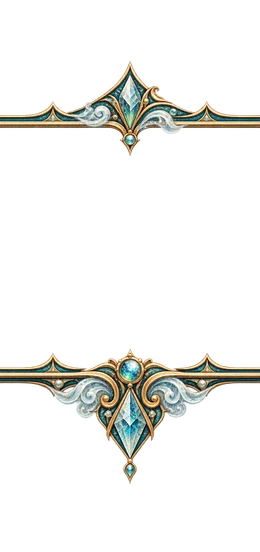
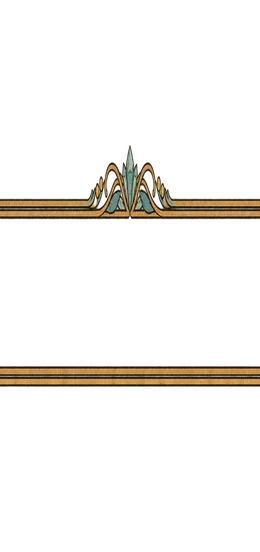
Rework Elemental artwork as Art Nouveau and apply theme palette

Changed region(s): [[0.0, 0.0924, 1.0, 0.4004], [0.0, 0.6159, 1.0, 0.8931]]

diff --git a/game-lines/changeling/styles/sheet-theme.css b/game-lines/changeling/styles/sheet-theme.css
@@ -430,14 +430,209 @@
 
 @media screen {
 
+  /* Paleta da ficha e dos controles que herdam as cores da linha. */
+  body:has([data-changeling-sheet-theme="elemental"]),
+  body:has([data-changeling-sheet-theme="elemental"]) .line-theme-ctl {
+    --primary: #1f5960;
+    --primary-foreground: #f5f1df;
+    --secondary: #dce8e3;
+    --secondary-foreground: #244950;
+    --accent: #cde3dc;
+    --accent-foreground: #244950;
+    --ring: #6caaa4;
+    --line-accent: #31777b;
+    --line-strong: #244950;
+    --line-soft: #edf2e9;
+    --line-border: #a9c6bf;
+    --line-topbar-start: #17383f;
+    --line-topbar-middle: #1e4d55;
+    --line-topbar-end: #1f5960;
+    --line-topbar-muted: #d7e8e0;
+  }
+
+  .app-shell:has([data-changeling-sheet-theme="elemental"]) .ctl-sheet {
+    --ctl-ink: #244950;
+    --ctl-ink-soft: rgb(36 73 80 / 48%);
+    --ctl-rule: rgb(36 73 80 / 34%);
+    --ctl-paper: #f3eddb;
+    --ctl-paper-light: rgb(248 246 231 / 68%);
+    --ctl-ornament-fill: #dfebe2;
+    --sheet-accent: #31777b;
+    --sheet-ink: #244950;
+    border-color: rgb(31 89 96 / 52%);
+    box-shadow: 0 16px 48px rgb(23 56 63 / 16%);
+  }
+
+  .app-shell:has([data-changeling-sheet-theme="elemental"])
+    .ctl-sheet:not(.mobile-character-sheet) {
+    --ctl-frame-star-side-offset: 32px;
+    --ctl-frame-star-side-width: 18px;
+  }
+
+  .app-shell:has([data-changeling-sheet-theme="elemental"]) .ctl-frame-edge-top::before,
+  .app-shell:has([data-changeling-sheet-theme="elemental"]) .ctl-frame-edge-top::after,
+  .app-shell:has([data-changeling-sheet-theme="elemental"]) .ctl-frame-edge-bottom::before,
+  .app-shell:has([data-changeling-sheet-theme="elemental"]) .ctl-frame-edge-bottom::after {
+    background-image: linear-gradient(to bottom, transparent 0 10%, rgb(31 89 96 / 76%) 10% 30%, transparent 30% 57%, rgb(31 89 96 / 48%) 57% 78%, transparent 78% 100%);
+  }
+
+  .app-shell:has([data-changeling-sheet-theme="elemental"]) .ctl-frame-edge-left,
+  .app-shell:has([data-changeling-sheet-theme="elemental"]) .ctl-frame-edge-right {
+    background-image: linear-gradient(to right, rgb(31 89 96 / 46%) 0 18%, transparent 18% 48%, rgb(31 89 96 / 76%) 48% 70%, transparent 70% 100%);
+  }
+
+  .app-shell:has([data-changeling-sheet-theme="elemental"]) .ctl-sheet .ctl-sheet-tab-list {
+    border-color: rgb(31 89 96 / 62%);
+    background: rgb(228 238 229 / 60%);
+  }
+
+  .app-shell:has([data-changeling-sheet-theme="elemental"]) .ctl-sheet .ctl-sheet-tab-list button {
+    border-right-color: rgb(31 89 96 / 34%);
+  }
+
+  .app-shell:has([data-changeling-sheet-theme="elemental"]) .ctl-sheet .ctl-sheet-tab-list button[data-state="active"] {
+    color: #f6f2e4;
+  }
+
+  .app-shell:has([data-changeling-sheet-theme="elemental"]) .ctl-sheet .ctl-sheet-tab-list button[data-state="active"]::before {
+    box-shadow: 0 0 0 1px rgb(31 89 96 / 35%);
+  }
+
+  .app-shell:has([data-changeling-sheet-theme="elemental"]) .ctl-sheet .official-sheet-body > section + section,
+  .app-shell:has([data-changeling-sheet-theme="elemental"]) .ctl-sheet .official-sheet-body > .sheet-layout-column + .sheet-layout-column {
+    border-left-color: rgb(31 89 96 / 35%);
+  }
+
+  .app-shell:has([data-changeling-sheet-theme="elemental"]) .ctl-sheet .editable-line-row input::placeholder,
+  .app-shell:has([data-changeling-sheet-theme="elemental"]) .ctl-sheet .notes-area textarea::placeholder {
+    color: rgb(36 73 80 / 65%);
+  }
+
+  .app-shell:has([data-changeling-sheet-theme="elemental"]) .ctl-sheet .tracker-help,
+  .app-shell:has([data-changeling-sheet-theme="elemental"]) .ctl-sheet .experience-panel,
+  .app-shell:has([data-changeling-sheet-theme="elemental"]) .ctl-sheet .notes-area small,
+  .app-shell:has([data-changeling-sheet-theme="elemental"]) .ctl-sheet .experience-title small {
+    color: rgb(36 73 80 / 76%);
+  }
+
+  .app-shell:has([data-changeling-sheet-theme="elemental"]) .ctl-sheet .power-resource::before,
+  .app-shell:has([data-changeling-sheet-theme="elemental"]) .ctl-sheet .experience-panel::before {
+    background: rgb(31 89 96 / 48%);
+  }
+
+  .app-shell:has([data-changeling-sheet-theme="elemental"]) .ctl-sheet .experience-totals div,
+  .app-shell:has([data-changeling-sheet-theme="elemental"]) .ctl-sheet .experience-input,
+  .app-shell:has([data-changeling-sheet-theme="elemental"]) .ctl-sheet .beat-controls,
+  .app-shell:has([data-changeling-sheet-theme="elemental"]) .ctl-sheet .beat-resource {
+    border-color: rgb(31 89 96 / 26%);
+    background: rgb(248 246 231 / 55%);
+  }
+
+  .app-shell:has([data-changeling-sheet-theme="elemental"]) .ctl-sheet .experience-totals span,
+  .app-shell:has([data-changeling-sheet-theme="elemental"]) .ctl-sheet .experience-input span,
+  .app-shell:has([data-changeling-sheet-theme="elemental"]) .ctl-sheet .beat-controls legend,
+  .app-shell:has([data-changeling-sheet-theme="elemental"]) .ctl-sheet .beat-resource > span {
+    color: rgb(36 73 80 / 70%);
+  }
+
+  .app-shell:has([data-changeling-sheet-theme="elemental"]) .ctl-sheet .experience-actions button,
+  .app-shell:has([data-changeling-sheet-theme="elemental"]) .ctl-sheet .condition-manager > button,
+  .app-shell:has([data-changeling-sheet-theme="elemental"]) .ctl-sheet .notes-area textarea,
+  .app-shell:has([data-changeling-sheet-theme="elemental"]) .ctl-sheet .rule-power-card,
+  .app-shell:has([data-changeling-sheet-theme="elemental"]) .ctl-sheet .selected-condition,
+  .app-shell:has([data-changeling-sheet-theme="elemental"]) .ctl-sheet .selected-tilt {
+    border-color: rgb(31 89 96 / 38%);
+  }
+
+  .app-shell:has([data-changeling-sheet-theme="elemental"]) .ctl-sheet .experience-actions button:not(.ctl-purchase-trait-button),
+  .app-shell:has([data-changeling-sheet-theme="elemental"]) .ctl-sheet .condition-manager > button {
+    background: rgb(207 228 218 / 65%);
+  }
+
+  .app-shell:has([data-changeling-sheet-theme="elemental"]) .ctl-sheet .experience-actions button:not(.ctl-purchase-trait-button):hover,
+  .app-shell:has([data-changeling-sheet-theme="elemental"]) .ctl-sheet .condition-manager > button:hover {
+    background: rgb(164 207 193 / 76%);
+  }
+
+  .app-shell:has([data-changeling-sheet-theme="elemental"]) .ctl-sheet .experience-actions button.ctl-purchase-trait-button::before {
+    background: rgb(31 89 96 / 65%);
+  }
+
+  .app-shell:has([data-changeling-sheet-theme="elemental"]) .ctl-sheet .experience-actions button.ctl-purchase-trait-button::after {
+    background: rgb(246 241 222 / 92%);
+  }
+
+  .app-shell:has([data-changeling-sheet-theme="elemental"]) .ctl-sheet .experience-actions button.ctl-purchase-trait-button:hover::after {
+    background: #d0e4dc;
+  }
+
+  .app-shell:has([data-changeling-sheet-theme="elemental"]) .ctl-sheet .notes-area textarea {
+    background-color: rgb(248 246 231 / 58%);
+    background-image: repeating-linear-gradient(transparent, transparent 23px, rgb(31 89 96 / 18%) 24px);
+  }
+
+  .app-shell:has([data-changeling-sheet-theme="elemental"]) .ctl-sheet .rule-power-card,
+  .app-shell:has([data-changeling-sheet-theme="elemental"]) .ctl-sheet .selected-condition,
+  .app-shell:has([data-changeling-sheet-theme="elemental"]) .ctl-sheet .selected-tilt {
+    background: rgb(248 246 231 / 58%);
+  }
+
+  body:has([data-changeling-sheet-theme="elemental"]) .ctl-dialog,
+  body:has(.line-theme-ctl):has([data-changeling-sheet-theme="elemental"])
+    :is([data-slot="dialog-content"], [data-slot="alert-dialog-content"]) {
+    --ctl-ink: #244950;
+    --sheet-accent: #31777b;
+    --sheet-ink: #244950;
+    border-color: rgb(31 89 96 / 50%) !important;
+    background: rgb(248 246 231 / 98%) !important;
+    color: #244950;
+  }
+
+  body:has([data-changeling-sheet-theme="elemental"]) .ctl-dialog :is(input, button, [data-slot="select-trigger"]),
+  body:has(.line-theme-ctl):has([data-changeling-sheet-theme="elemental"])
+    :is([data-slot="dialog-content"], [data-slot="alert-dialog-content"])
+    :is(input, button, [data-slot="select-trigger"]) {
+    border-color: rgb(31 89 96 / 38%);
+  }
+
+  body:has(.line-theme-ctl):has([data-changeling-sheet-theme="elemental"])
+    :is([data-slot="dialog-content"], [data-slot="alert-dialog-content"])
+    :is([data-slot="dialog-title"], [data-slot="alert-dialog-title"], strong),
+  body:has(.line-theme-ctl):has([data-changeling-sheet-theme="elemental"])
+    :is([data-slot="dialog-content"], [data-slot="alert-dialog-content"])
+    .experience-merit-catalog p {
+    color: #244950;
+  }
+
+  body:has(.line-theme-ctl):has([data-changeling-sheet-theme="elemental"])
+    :is([data-slot="dialog-content"], [data-slot="alert-dialog-content"])
+    .experience-merit-catalog small,
+  body:has([data-changeling-sheet-theme="elemental"]) .ctl-dialog .merit-option small,
+  body:has([data-changeling-sheet-theme="elemental"]) .ctl-dialog .experience-merit-catalog small {
+    color: rgb(36 73 80 / 72%);
+  }
+
+  body:has([data-changeling-sheet-theme="elemental"]) .ctl-dialog .merit-option p,
+  body:has([data-changeling-sheet-theme="elemental"]) .ctl-dialog .experience-merit-catalog p {
+    color: #244950;
+  }
+
   /* ---------- DESKTOP: TÍTULO ---------- */
+
+  .app-shell:has([data-changeling-sheet-theme="elemental"])
+    .ctl-sheet:not(.mobile-character-sheet)
+    .cod-sheet-title > div {
+    width: 100%;
+    justify-content: center;
+  }
 
   .app-shell:has([data-changeling-sheet-theme="elemental"])
     .ctl-sheet:not(.mobile-character-sheet)
     .cod-sheet-title .ctl-title-mark {
     width: 480px;
     max-width: 100%;
-    translate: 30px -5px;
+    background-position: center;
+    translate: 0 -5px;
   }
 
   .app-shell:has([data-changeling-sheet-theme="elemental"])
@@ -493,7 +688,7 @@
   .app-shell:has([data-changeling-sheet-theme="elemental"])
     .ctl-sheet:not(.mobile-character-sheet)
     .skill-highlight-kith .kith-skill-frame {
-    translate: 5px 5px;
+    translate: 0 3px;
     scale: 1.095;
     transform-origin: center;
   }
@@ -504,42 +699,15 @@
   .app-shell:has([data-changeling-sheet-theme="elemental"])
     .ctl-sheet.mobile-character-sheet
     .skill-highlight-kith .kith-skill-frame {
-    translate: 5px 5px;
+    translate: 0 3px;
     scale: 1.095;
     transform-origin: center;
   }
 
-
-  /* ========================================================
-     ELEMENTAL: CORREÇÕES ESPECÍFICAS
-     ======================================================== */
-
-
-  /* ---------- SKILL HIGHLIGHT RIGHT ----------
-  */
-
   .app-shell:has([data-changeling-sheet-theme="elemental"])
-    .ctl-sheet .kith-skill-right {
-    scale: 1 1.15;
-    translate: 0px 2px;
-    transform-origin: left center;
+    .ctl-sheet :is(.kith-skill-middle-1, .kith-skill-middle-2) {
+    translate: 0 -1px;
   }
 
-
-  /* ---------- ATTRIBUTES DIVIDER LEAF ----------
-
-     Pendente de identificação do seletor real.
-
-     O CSS que utiliza attributes-divider-leaf.webp
-     ainda não foi fornecido.
-
-     A correção deve ser aplicada ao elemento que
-     renderiza a imagem, não à imagem de fundo global.
-
-     Objetivo:
-     - Ampliar o ornamento;
-     - Preservar sua posição;
-     - Não alterar os demais temas.
-  */
 
 }

diff --git a/lib/app-version.ts b/lib/app-version.ts
@@ -1,3 +1,3 @@
 // Generated automatically by scripts/build-verified.mjs.
 // Do not edit manually.
-export const APP_VERSION = "2026.10.11-d489f6e";
+export const APP_VERSION = "2026.10.11-b840cf1";

diff --git a/public/sw.js b/public/sw.js
@@ -1,4 +1,4 @@
-const VERSION = "2026.10.11-d489f6e";
+const VERSION = "2026.10.11-b840cf1";
 const CACHE = `characters-of-the-darkness-${VERSION}`;
 
 const SHELL = [

diff --git a/art-preview/theme-asset-guide.md b/art-preview/theme-asset-guide.md
@@ -26,3 +26,7 @@ The four skill pieces form one uninterrupted horizontal frame behind a variable-
 Before proposing a new theme, assemble its pieces at their CSS display sizes over representative sheet text. Check that the Attributes rule and leaf do not touch the three category labels; that the compact `section-divider` ends the heading rule instead of crossing its title; and that `frame-side` reads as a small finial on each side of `frame-center`. Inspect Desktop and Mobile header title alignment, the active tab texture, and the Kith skill highlight. Theme previews stay separate from active WebP assets until the user approves them.
 
 For Fairest, use luxurious Art Nouveau and Belle Époque jewelry, chiefly aged gold, sage green, blush pink, pearls and pink ivory. Apply each other Seeming's user-specified art style and palette without changing these geometry constraints. Avoid photorealism and hyperrealism.
+
+Elemental uses **period Art Nouveau color lithography**, with flat muted inks, hand-drawn outlines, flowing curves and subtle print grain. Alchemical diagrams and minerals are motifs within that illustration style; glossy 3D gemstones or polished digital fantasy rendering are wrong even when the palette is correct. The palette is petroleum blue, mineral turquoise, aged copper and pale gold. Its wordmark reads `ELEMENTAL`.
+
+Fairest keeps its existing roses, sage leaves, pearls, jeweled motifs and composition. When revising the finish, match a turn-of-the-century illustrated print: matte colors and drawn contours, with restrained gem highlights. Preserve each asset's geometry and transparency so the approved CSS placement still works.
